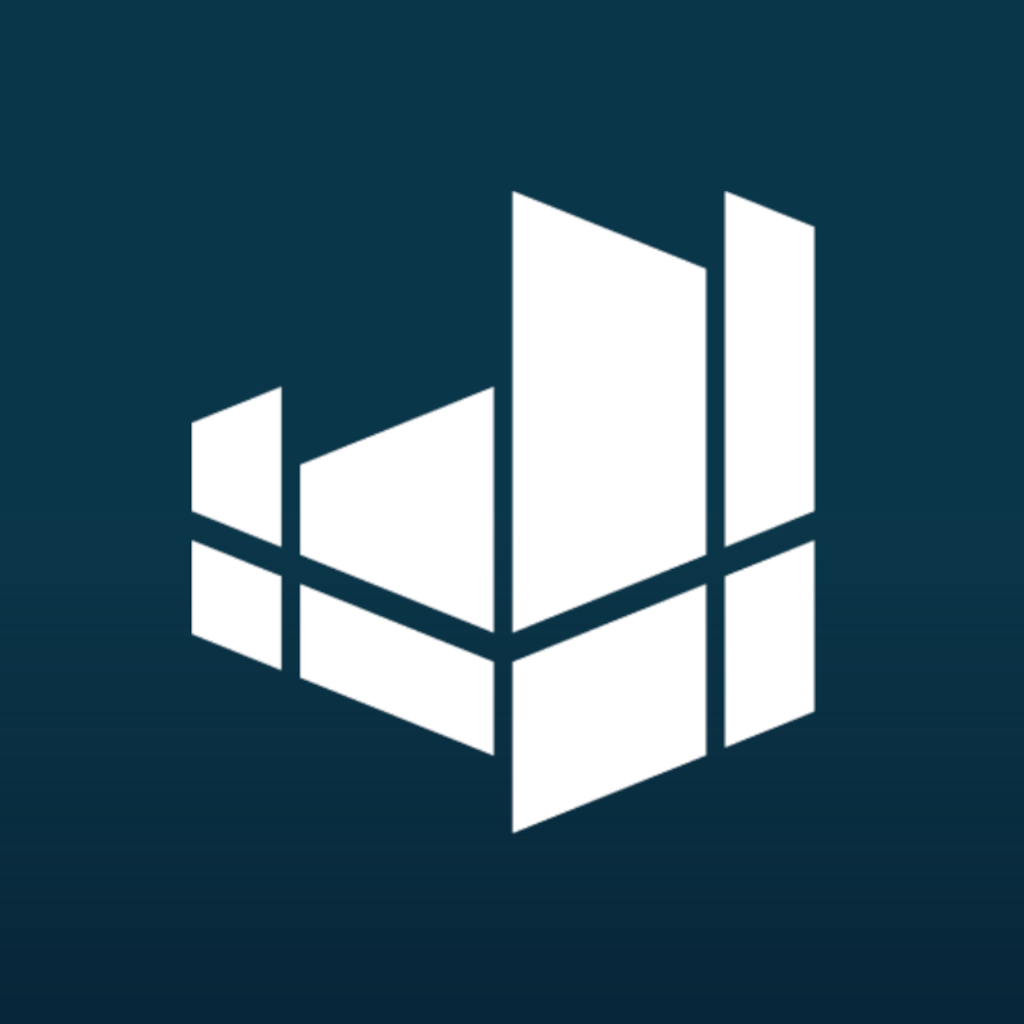
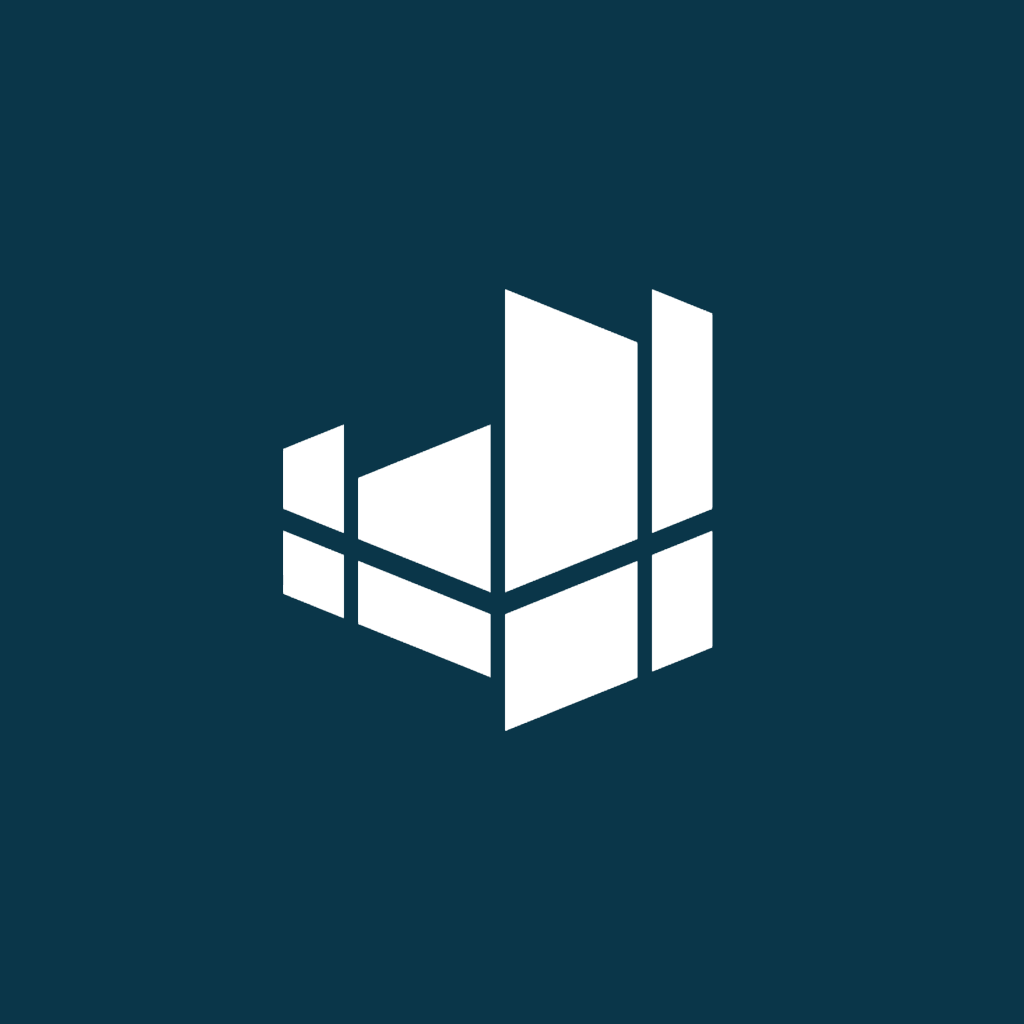
adaptando iconos

Changed region(s): [[0.1875, 0.1875, 0.8125, 0.8125]]

diff --git a/src/views/Login/CreacionCuenta.tsx b/src/views/Login/CreacionCuenta.tsx
@@ -64,7 +64,6 @@ function CreacionCuenta(): JSX.Element {
               placeholder='Escribe tus nombres '
               placeholderTextColor='grey'
               autoCapitalize='none'
-              secureTextEntry={true}
             />
             <Text
               style={{
@@ -88,7 +87,6 @@ function CreacionCuenta(): JSX.Element {
               placeholder='Escribe tus apellidos '
               placeholderTextColor='grey'
               autoCapitalize='none'
-              secureTextEntry={true}
             />
           </View>
         </View>
